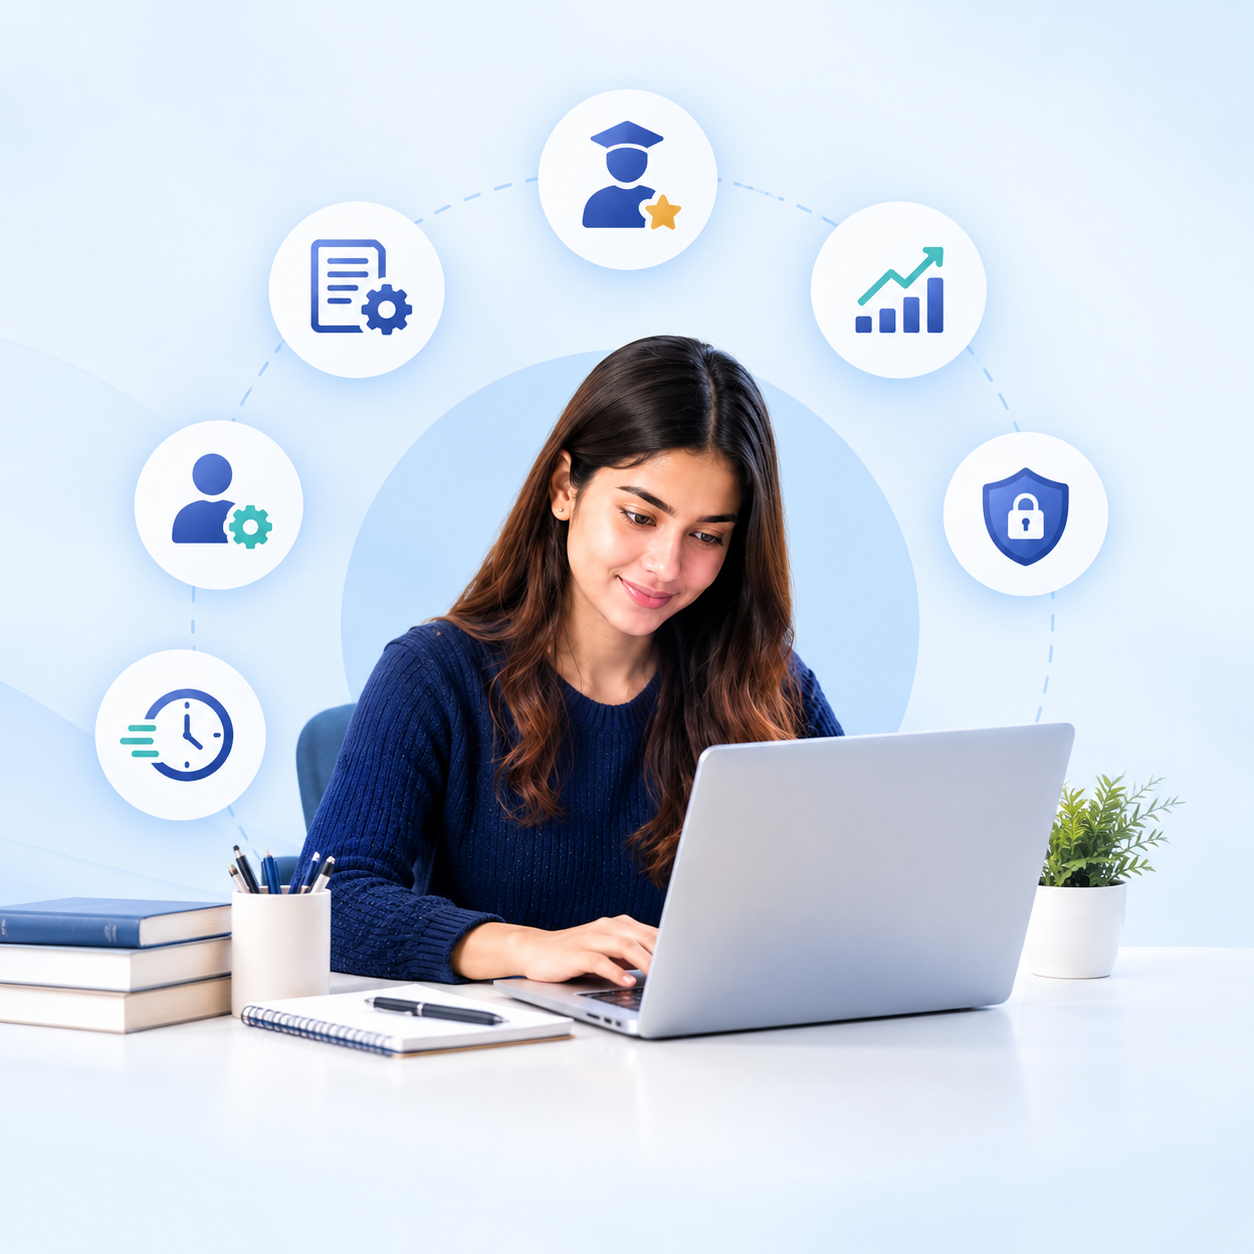
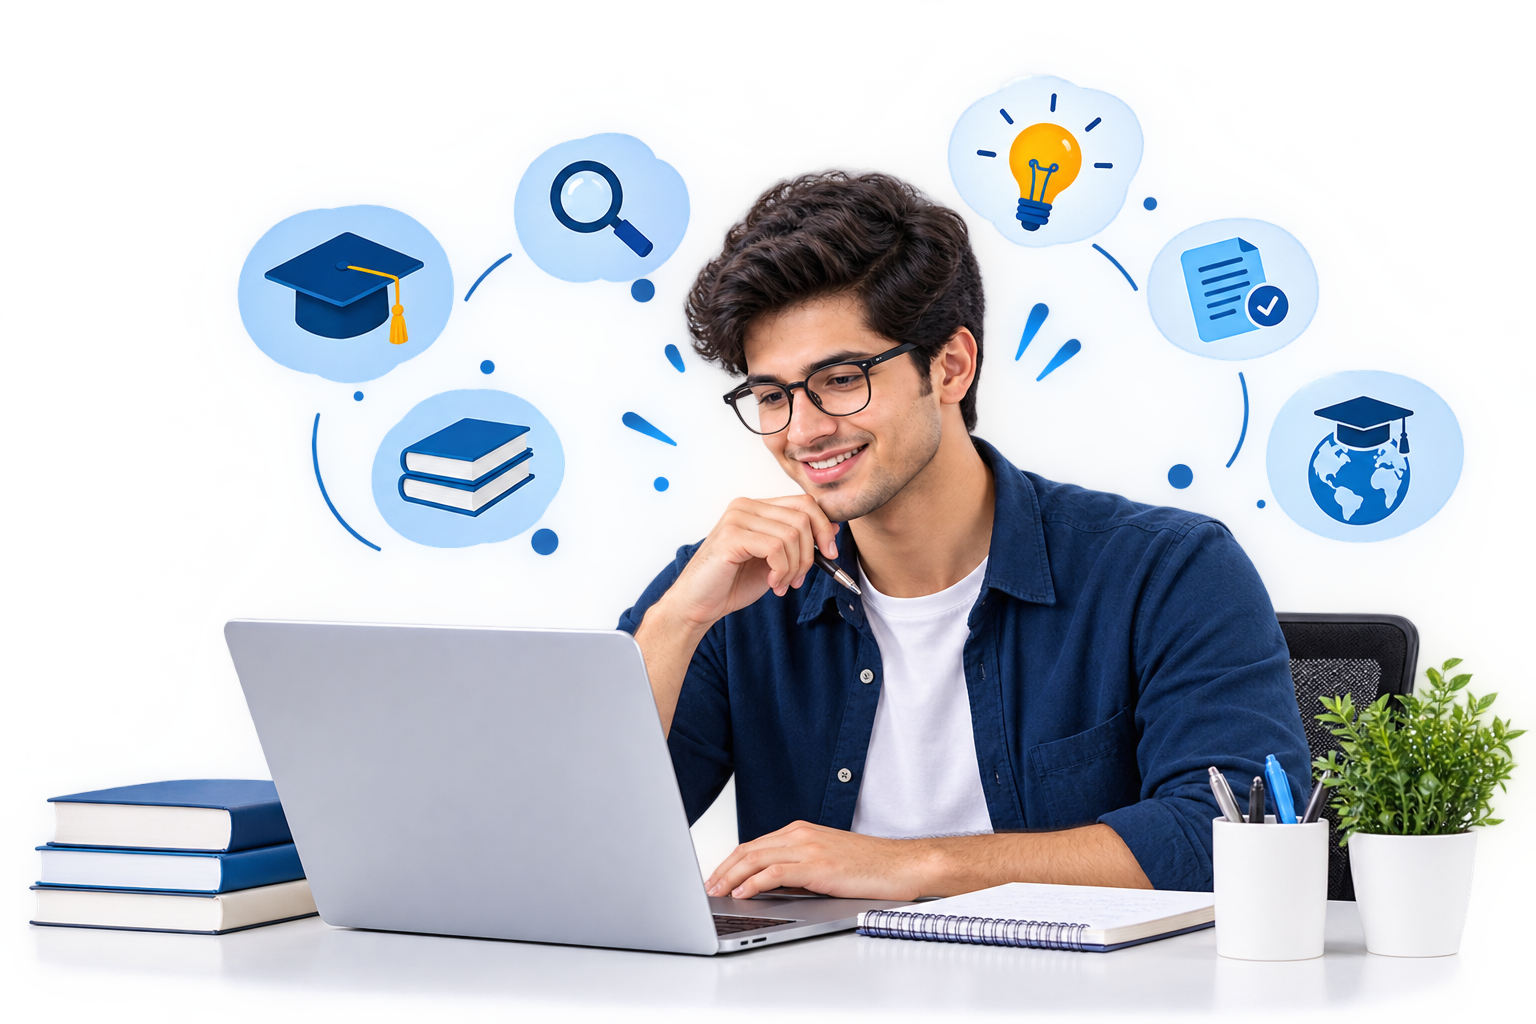
homepage updated

diff --git a/Frontend/src/pages/Home/Home.css b/Frontend/src/pages/Home/Home.css
@@ -289,11 +289,10 @@
 .why-visual { position: relative; }
 .side-img {
   width: 100%;
-  height: min(70vh, 580px);
+  height: min(49vh, 580px);
   object-fit: cover;
   border-radius: 28px;
   display: block;
-  box-shadow: 0 30px 60px rgba(29, 78, 216, 0.15);
 }
 
 /* ---------- PROCESS ---------- */
